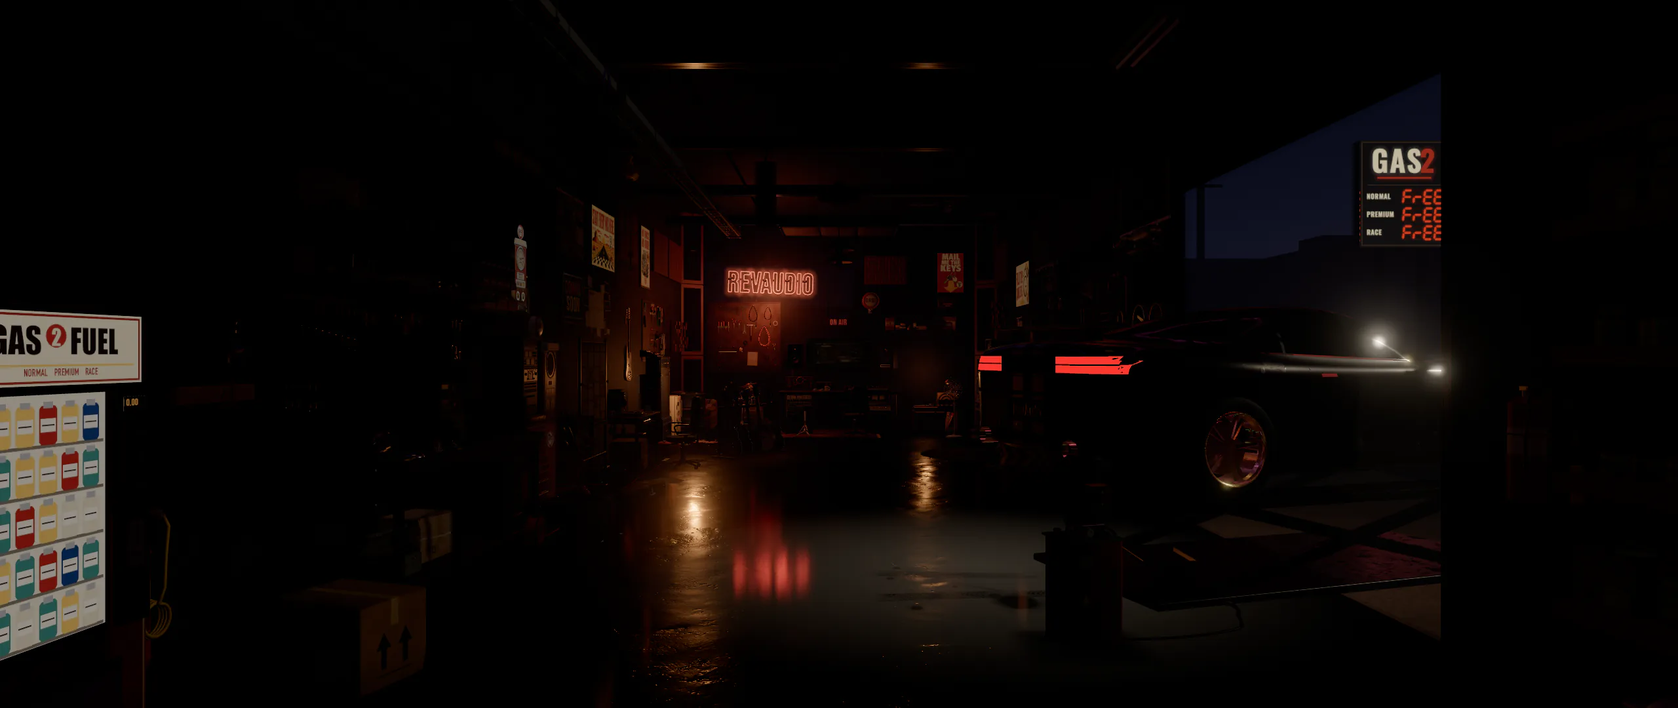
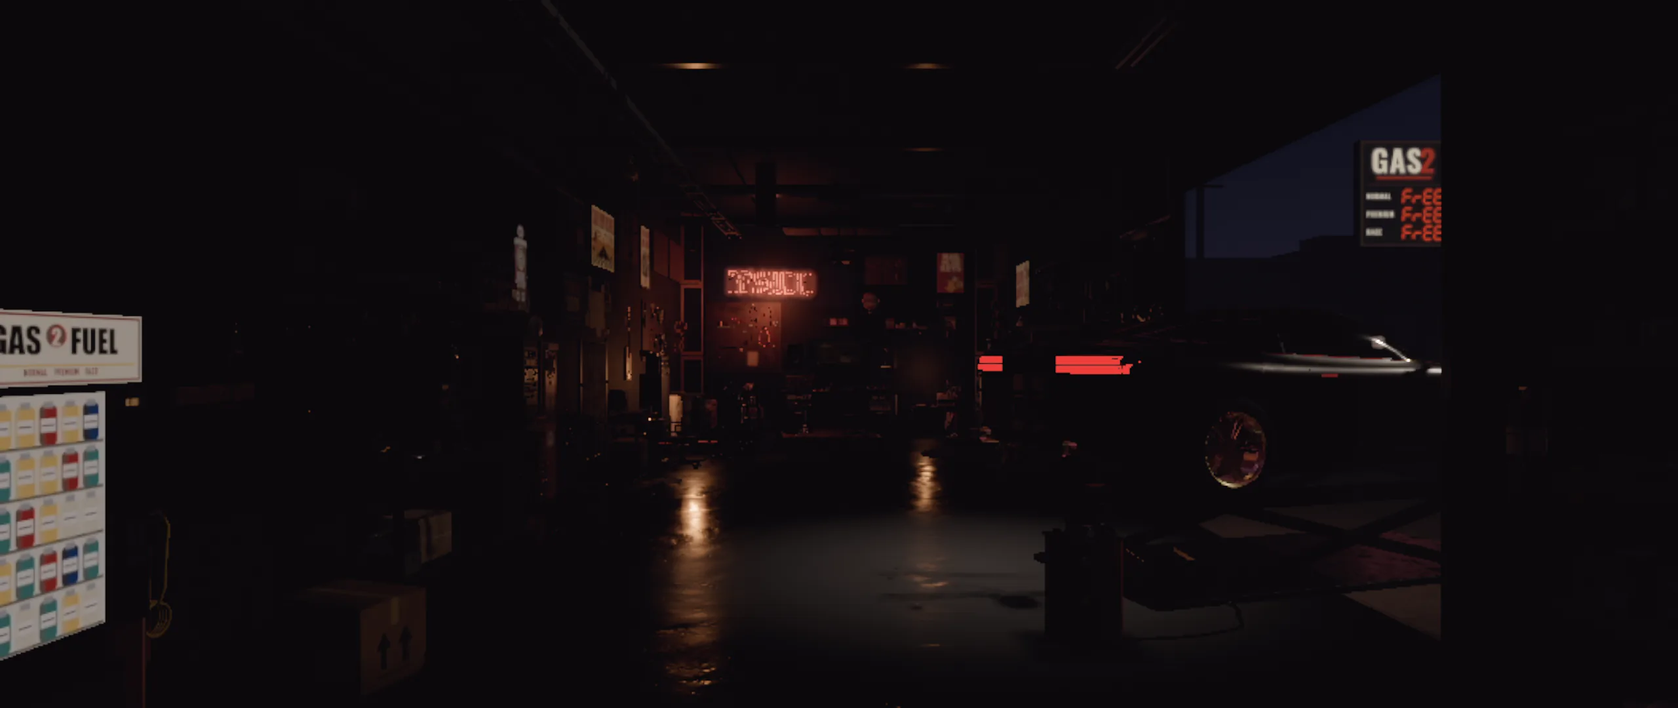
Home page garage: faster, and in VHS (Dan's pick), loading screen to match
The scroll and the walk lagged (Dan, 2026-11-18). Measured by an approved agent team, verified on a quiet Mac:
- Look-neutral speed fixes (pixel-checked, max 1 level off at every stop, Chrome @1/@2 and WebKit):
  O-1 a lamp's maths skipped where it adds nothing; O-2 the page's smoke hidden behind the frame;
  O-3 the floor's reflection drawn first; O-4 the glow added in the finish; O-6 a governor for weak
  machines only (never fired on this Mac). Door, Chrome uncapped 1141x636@2: 25.2 -> 12.2 ms.
- The vintage looks (film, 16mm, vhs) in room.html LOOKS; VHS is the default (LOOK_DEFAULT), Dan's
  pick on the comparison page. Door 3.9 ms; the home walk at the 60 Hz cap in Chrome, ~57 fps WebKit.
  ?look=today shows today's look; the home page passes ?look= through (allow-list).
- The loading screen in VHS: pictures re-rendered with &flat; the vignette and scanlines laid over them
  in CSS (.lo-look, lookOverlay) the way the finish lays them on the room. lights/check.mjs at
  1141x636@2: blurred mean 2.17, p99 12, worst area 5.4: PASS (today's 3.30 / 15 / 12.5).

Gates: build; home-prod Chrome + WebKit (same states as base); TV hand-off 1.65 (limit 2.6); bench
(dev + hidden page); haze; governor idle; parity default == ?look=vhs, ?look=today == today's room.

diff --git a/tools/_home-opening/room.html b/tools/_home-opening/room.html
@@ -69,6 +69,8 @@
   .lights .lo-bank, .lights .lo-flare, .lights .lo-grain { mix-blend-mode: plus-lighter; }
   .lights.no-plus .lo-bank, .lights.no-plus .lo-flare, .lights.no-plus .lo-grain { mix-blend-mode: screen; }
   .lights .lo-grain { position: absolute; inset: -96px; background-size: 192px 192px; opacity: 0; transition: opacity .9s ease; will-change: transform, opacity; }
+  /* the look's vignette and scanlines over the loading pictures (room.html lookOverlay): multiplied, like the finish */
+  .lights .lo-look { position: absolute; inset: 0; z-index: 1; mix-blend-mode: multiply; background-blend-mode: multiply; }
   html.lights-loading, html.lights-loading body { overflow: hidden; }
   html.lights-loading { scrollbar-gutter: stable; } /* (Windows: the scrollbar's room kept, so the hand-off doesn't re-lay the room) */
   .tv-live { position: absolute; left: 0; top: var(--nav-h); width: 100%; height: calc(var(--vh) - var(--nav-h)); display: block;
@@ -222,6 +224,11 @@ import { ShaderPass } from 'three/addons/postprocessing/ShaderPass.js';
 import { Reflector } from 'three/addons/objects/Reflector.js';
 import { RoundedBoxGeometry } from 'three/addons/geometries/RoundedBoxGeometry.js';
 import { buildStreet } from './street.js'; // the night outside the door: the station across the road (Dan, round 4)
+// speed (2026-11-18, O-1): a lamp's lighting maths is skipped wherever it adds exactly nothing (outside a spot's cone, or
+// fully in its shadow): the same picture, a much lighter frame (the spot lamps' maths ran on every lit pixel of the room).
+// Patched once here, before any shader compiles; a three.js whose chunk reads differently is left as it is
+{ const RE = 'RE_Direct( directLight, geometryPosition, geometryNormal, geometryViewDir, geometryClearcoatNormal, material, reflectedLight );', ch = THREE.ShaderChunk.lights_fragment_begin;
+  if (ch.split(RE).length === 4) THREE.ShaderChunk.lights_fragment_begin = ch.split(RE).join(`if ( directLight.visible && dot( directLight.color, vec3( 1.0 ) ) > 0.0 ) ${RE}`); }
 
 // ---------- settings (the bench; COPY SETTINGS bakes them) ----------
 const DEF = {
@@ -366,6 +373,14 @@ const EMBED_NAV = EMBED ? Math.round(+(window.__EMBED?.nav ?? new URLSearchParam
 // __EMBED.sale = the page's sale strip over the nav ('soon' | 'bf' | 'cm', src/data/sale.ts): the home TV sits under it,
 // laid out for a shorter screen, so the TV's picture is its own capture (tvcap.mjs --suffix sale; the three show the same TV)
 const EMBED_SALE = EMBED && ['soon', 'bf', 'cm'].includes(window.__EMBED?.sale) ? 'sale' : '';
+// the room's look (LOOKS, below the finish): LOOK_DEFAULT (Dan 2026-11-18, his pick on the comparison page: "VHS"), or
+// the one ?look=<id> asks for (the home page: __EMBED.look); ?look=today = today's look, without one (for comparing: the
+// loading screen's pictures stay the default look's)
+const LOOK_DEFAULT = 'vhs';
+const LOOK_ID = (EMBED ? window.__EMBED?.look : null) || new URLSearchParams(location.search).get('look') || LOOK_DEFAULT;
+// &flat (lights/render.mjs): the loading screen's pictures, drawn in the look without the marks that screen lays over them
+// itself (the vignette and the scanlines: lookOverlay) or the grain, at the look's resolution as a 1141x636 laptop shows them
+const LOOK_FLAT = CAPTURE != null && new URLSearchParams(location.search).has('flat');
 const embed = { y: 0, to: 0, paused: false };
 const embedSay = (ev, data) => { if (EMBED && parent !== window) parent.postMessage({ garage: ev, ...data }, '/'); };
 embedSay('boot'); // (the page falls back when this never comes: a script that failed to load)
@@ -482,13 +497,14 @@ function liveScreen(m) { // an opaque screen: its pixels skip the tone mapping
 // the finish: the room tone-mapped (bench: tone, exposure) and dithered against banding in the dark; the screens as they are
 const TONES = { none: 0, agx: 1, neutral: 2, aces: 3 };
 const FINISH = {
-  uniforms: { tDiffuse: { value: null }, toneMappingExposure: { value: 1 }, uTone: { value: 1 } },
+  uniforms: { tDiffuse: { value: null }, tBloom: { value: null }, toneMappingExposure: { value: 1 }, uTone: { value: 1 } },
   vertexShader: /* glsl */`varying vec2 vUv; void main() { vUv = uv; gl_Position = projectionMatrix * modelViewMatrix * vec4(position, 1.0); }`,
   fragmentShader: /* glsl */`
-    uniform sampler2D tDiffuse; uniform float uTone; varying vec2 vUv;
+    uniform sampler2D tDiffuse, tBloom; uniform float uTone; varying vec2 vUv;
     #include <tonemapping_pars_fragment>
     void main() {
       vec4 c = texture2D(tDiffuse, vUv);
+      c.rgb += texture2D(tBloom, vUv).rgb; // the glow (O-4, see bloomPass): added to the colour, the frame's alpha left as it is
       vec3 room = uTone < 0.5 ? clamp(c.rgb * toneMappingExposure, 0.0, 1.0) : uTone < 1.5 ? AgXToneMapping(c.rgb)
         : uTone < 2.5 ? NeutralToneMapping(c.rgb) : ACESFilmicToneMapping(c.rgb);
       room = sRGBTransferOETF(vec4(room, 1.0)).rgb + (fract(sin(dot(gl_FragCoord.xy, vec2(12.9898, 78.233))) * 43758.5453) - 0.5) / 255.0;
@@ -496,14 +512,140 @@ const FINISH = {
       gl_FragColor = vec4(mix(screen, room, clamp(c.a, 0.0, 1.0)), 1.0);
     }`,
 };
+// ---------- the vintage looks (?look=<id>; 2026-11-18 speed run, Dan: "less modern, more vintage") ----------
+// A look is cheaper because of what it drops, not what it adds: the room is drawn into a corner of the composer's
+// target at a lower resolution (k: the scene pass's share of today's pixels per side, capped at dpr device px per
+// CSS px), without the wet floor (a second drawing of the room), without UnrealBloom (its five blur levels) and with
+// msaa samples (0 = none); the finish then lays the look over at the canvas's full size: a halation from the target's
+// mip levels in place of the bloom, a grade (lift, gain, saturation, contrast), a vignette, grain seeded per frame,
+// soft scanlines and a chroma bleed (vhs). No flashing, rolling or jitter (WCAG 2.3.1). Every look eases off to
+// today's finish between off[0] and off[1] of the walk, its resolution back to full, so the real TV takes over the
+// same picture (the hand-off gate). move: the 16mm look draws softer while the walk moves (k x move), sharp at rest.
+// On the faster room (O-3, O-4): lookFrame() runs before frame() decides on the floor's reflection, so hiding R.wet
+// there drops the top-level draw too; and a look's finish never reads tBloom (the glow pass is off, lookInit).
+const LOOKS = {
+  film: { name: '1970s film', k: 0.8, dpr: 1.0, msaa: 0, off: [0.9, 0.99],
+    halo: { px: 7, thr: 0.35, k: 0.55, tint: [1.0, 0.42, 0.22] }, lift: [0.032, 0.022, 0.026], gain: [1.03, 0.985, 0.9], sat: 0.86, con: 0.18,
+    vig: 0.42, grain: 0.05, grainPx: 1.1, scan: 0, bleed: 0 },
+  '16mm': { name: '16 mm', k: 0.7, dpr: 0.85, move: 0.7, msaa: 0, off: [0.9, 0.99],
+    halo: { px: 9, thr: 0.3, k: 0.7, tint: [1.0, 0.5, 0.3] }, lift: [0.04, 0.03, 0.036], gain: [1.02, 0.99, 0.92], sat: 0.8, con: 0.24,
+    vig: 0.6, grain: 0.07, grainPx: 1.6, scan: 0, bleed: 0 },
+  vhs: { name: 'VHS', k: 0.6, dpr: 0.7, msaa: 0, off: [0.9, 0.99],
+    halo: { px: 6, thr: 0.3, k: 0.45, tint: [1.0, 0.8, 0.85] }, lift: [0.04, 0.032, 0.045], gain: [0.99, 0.98, 1.0], sat: 0.92, con: 0.1,
+    vig: 0.32, grain: 0.03, grainPx: 1.0, scan: 0.12, bleed: 1.5 },
+};
+const LOOK_ON = Object.hasOwn(LOOKS, LOOK_ID || '') ? LOOKS[LOOK_ID] : null;
+const LK = { n: 0, p: null, hold: 0, m: 0 }; // the grain's frame count; the walk's last place, how much it moves (16mm)
+const lookFinish = (lk) => ({ // FINISH with the look on top; at uAmt 0 and uK 1 it is FINISH's own arithmetic (less the glow)
+  uniforms: { ...FINISH.uniforms, uK: { value: new THREE.Vector2(1, 1) }, uAmt: { value: 1 }, uSeed: { value: 0 }, uLod: { value: 3 }, uCss: { value: 1 },
+    uLift: { value: new THREE.Vector3(...lk.lift) }, uGain: { value: new THREE.Vector3(...lk.gain) }, uHalo: { value: new THREE.Vector3(...lk.halo.tint) },
+    uG: { value: new THREE.Vector4(lk.sat, lk.con, lk.vig, lk.halo.k) }, uF: { value: new THREE.Vector4(lk.grain, lk.grainPx, lk.scan, lk.bleed) }, uThr: { value: lk.halo.thr } },
+  vertexShader: FINISH.vertexShader,
+  fragmentShader: /* glsl */`
+    uniform sampler2D tDiffuse; uniform float uTone, uAmt, uSeed, uLod, uCss, uThr; uniform vec2 uK; uniform vec3 uLift, uGain, uHalo;
+    uniform vec4 uG, uF; varying vec2 vUv;
+    #include <tonemapping_pars_fragment>
+    float h12(vec2 p) { vec3 q = fract(vec3(p.xyx) * 0.1031); q += dot(q, q.yzx + 33.33); return fract((q.x + q.y) * q.z); }
+    float vnoise(vec2 p) { vec2 i = floor(p), f = fract(p); f = f * f * (3.0 - 2.0 * f);
+      return mix(mix(h12(i), h12(i + vec2(1.0, 0.0)), f.x), mix(h12(i + vec2(0.0, 1.0)), h12(i + vec2(1.0, 1.0)), f.x), f.y); }
+    vec3 halo(vec2 uv, float lod, vec2 ts) { vec2 o = 0.5 * exp2(lod) / ts; // four taps half a texel of that level apart: a tent, not its blocks
+      return 0.25 * (textureLod(tDiffuse, uv + vec2(o.x, o.y), lod).rgb + textureLod(tDiffuse, uv + vec2(-o.x, o.y), lod).rgb
+        + textureLod(tDiffuse, uv + vec2(o.x, -o.y), lod).rgb + textureLod(tDiffuse, uv - o, lod).rgb); }
+    void main() {
+      vec2 ts = vec2(textureSize(tDiffuse, 0)), uv = uK.x < 1.0 ? min(vUv * uK, uK - 0.5 / ts) : vUv;
+      vec4 c = textureLod(tDiffuse, uv, 0.0);
+      vec3 hdr = c.rgb;
+      if (uAmt > 0.0) {
+        if (uF.w > 0.0) { // the tape's colour smeared from the left, its brightness kept
+          vec2 d = vec2(uF.w / ts.x, 0.0);
+          vec3 s = 0.4 * hdr + 0.3 * textureLod(tDiffuse, uv - d, 0.0).rgb + 0.2 * textureLod(tDiffuse, uv - 2.0 * d, 0.0).rgb + 0.1 * textureLod(tDiffuse, uv - 3.0 * d, 0.0).rgb;
+          vec3 Y = vec3(0.299, 0.587, 0.114);
+          hdr = mix(hdr, (s + 0.002) / (dot(s, Y) + 0.002) * dot(hdr, Y), uAmt); // (the smeared hue at this pixel's brightness)
+        }
+        vec3 b = 0.5 * halo(uv, uLod, ts) + 0.3 * halo(uv, uLod + 1.0, ts) + 0.2 * halo(uv, uLod + 2.0, ts);
+        float bl = max(max(b.r, b.g), b.b);
+        hdr += b * clamp((bl - uThr) / max(bl, 1e-4), 0.0, 1.0) * uHalo * uG.w * uAmt; // the light that spread in the emulsion: red-orange round the lamps and tubes
+      }
+      vec3 room = uTone < 0.5 ? clamp(hdr * toneMappingExposure, 0.0, 1.0) : uTone < 1.5 ? AgXToneMapping(hdr)
+        : uTone < 2.5 ? NeutralToneMapping(hdr) : ACESFilmicToneMapping(hdr);
+      room = sRGBTransferOETF(vec4(room, 1.0)).rgb + (fract(sin(dot(gl_FragCoord.xy, vec2(12.9898, 78.233))) * 43758.5453) - 0.5) / 255.0;
+      vec3 screen = sRGBTransferOETF(vec4(clamp(c.rgb, 0.0, 1.0), 1.0)).rgb;
+      vec3 o = mix(screen, room, clamp(c.a, 0.0, 1.0));
+      if (uAmt > 0.0) {
+        vec3 g = clamp(o, 0.0, 1.0); float l = dot(g, vec3(0.2126, 0.7152, 0.0722));
+        g = mix(vec3(l), g, uG.x);                     // saturation
+        g = mix(g, g * g * (3.0 - 2.0 * g), uG.y);     // a print's S-curve
+        g = uLift + g * (uGain - uLift);               // lifted, tinted blacks; warm highlights
+        vec2 q = (vUv - 0.5) * vec2(1.0, 0.8);
+        g *= 1.0 - uG.z * smoothstep(0.12, 0.62, dot(q, q) * 2.0); // the lens's falloff
+        if (uF.z > 0.0) g *= 1.0 - uF.z * (0.5 - 0.5 * cos(6.2832 * gl_FragCoord.y / (3.0 * uCss))); // soft scanlines, still (every 3 CSS px)
+        float n = vnoise(gl_FragCoord.xy / (uCss * uF.y) + fract(uSeed * vec2(0.6180, 0.7548)) * 512.0) * 2.0 - 1.0;
+        g += n * uF.x * (0.35 + 2.6 * l * (1.0 - l)); // grain: mostly in the mid-tones, a little in the dark
+        o = mix(o, g, uAmt);
+      }
+      gl_FragColor = vec4(o, 1.0);
+    }`,
+});
+// set the look's targets and passes up (once, before the first frame)
+function lookInit() {
+  bloomPass.enabled = false;
+  for (const rt of [composer.renderTarget1, composer.renderTarget2]) { rt.texture.generateMipmaps = true; rt.texture.minFilter = THREE.LinearMipmapLinearFilter; } // the halation's levels
+  if (LOOK_FLAT) { const u = finishPass.uniforms; u.uG.value.z = 0; u.uF.value.x = 0; u.uF.value.z = 0; } // (&flat: no vignette, grain or scanlines)
+}
+// the loading screen in the look (lights/lights-on.js): its pictures are drawn &flat, and the vignette and the scanlines
+// lie over them here the way the finish lays them over the room: the same factors (multiplied, as the finish multiplies
+// its colour), in the screen's own CSS pixels, the scanlines counted from the bottom edge like gl_FragCoord. So the
+// hand-off shows the same picture. They leave with the loading screen
+function lookOverlay(lk) {
+  const grey = (v) => { const c = (255 * v).toFixed(1); return `rgb(${c} ${c} ${c})`; }, layers = [];
+  if (lk.scan) { // 1 - scan (0.5 - 0.5 cos(2 pi y / 3)), y in CSS px up from the bottom
+    const st = []; for (let i = 0; i <= 12; i++) { const y = i / 4; st.push(`${grey(1 - lk.scan * (0.5 - 0.5 * Math.cos(2 * Math.PI * y / 3)))} ${y}px`); }
+    layers.push(`repeating-linear-gradient(to top, ${st.join(', ')})`);
+  }
+  if (lk.vig) { // 1 - vig smoothstep(0.12, 0.62, 2|q|^2), q = (uv - 0.5)(1, 0.8): r^2 = 2|q|^2 on an ellipse of radii W/sqrt2, H/(0.8 sqrt2)
+    const st = [`${grey(1)} 0%`]; for (let i = 0; i <= 16; i++) { const r2 = 0.12 + 0.5 * i / 16, t = (r2 - 0.12) / 0.5; st.push(`${grey(1 - lk.vig * t * t * (3 - 2 * t))} ${(100 * Math.sqrt(r2)).toFixed(2)}%`); }
+    layers.push(`radial-gradient(${(100 / Math.SQRT2).toFixed(3)}% ${(100 / (0.8 * Math.SQRT2)).toFixed(3)}% at 50% 50%, ${st.join(', ')})`);
+  }
+  return layers.join(', ');
+}
+// each frame, before the composer: how strong the look is here, what share of the target the room is drawn into
+function lookFrame(now) {
+  const lk = LOOK_ON, u = finishPass.uniforms, rt = composer.readBuffer, W = rt.width, H = rt.height;
+  const pr = renderer.getPixelRatio() * (LOOK_FLAT ? innerHeight / 636 : 1); // (&flat: the picture's pixels per CSS px on a 1141x636 laptop, object-fit cover)
+  const amt = 1 - smooth(lk.off[0], lk.off[1], progress);
+  let kk = Math.min(lk.k, lk.dpr / pr);
+  if (lk.move) { // the walk moving (it moved in the last 8 frames): softer, easing in and out over a few frames
+    LK.hold = LK.p != null && Math.abs(progress - LK.p) > 2e-4 && CAPTURE == null ? 8 : Math.max(0, (LK.hold || 0) - 1); LK.p = progress;
+    LK.m += ((LK.hold > 0 ? 1 : 0) - LK.m) * 0.2;
+    kk *= 1 - (1 - lk.move) * LK.m;
+  }
+  const k = 1 + (kk - 1) * amt, w = Math.max(1, Math.round(W * k)), h = Math.max(1, Math.round(H * k));
+  for (const t of [composer.renderTarget1, composer.renderTarget2]) t.viewport.set(0, 0, w, h);
+  u.uK.value.set(w / W, h / H); u.uAmt.value = amt; u.uCss.value = pr;
+  u.uSeed.value = CAPTURE != null || reduced ? 1 : (LK.n = (LK.n + 1) % 8192); // a still (and reduced motion) holds one grain; the walk's grain moves every frame
+  u.uLod.value = Math.log2(Math.max(1, lk.halo.px * pr * (h / H)));
+  R.dust.mat.size = 0.02 * (h / H); // (a point's size follows the canvas, not the corner it is drawn in)
+  R.wet.visible = false; // dropped: the floor keeps its own highlights
+}
 // half floats with 4x MSAA (the edges of a room full of thin things), the glow, the finish
-const composer = new EffectComposer(renderer, new THREE.WebGLRenderTarget(1, 1, { type: THREE.HalfFloatType, samples: 4 }));
+const composer = new EffectComposer(renderer, new THREE.WebGLRenderTarget(1, 1, { type: THREE.HalfFloatType, samples: LOOK_ON ? LOOK_ON.msaa : 4 }));
 const bloomPass = new UnrealBloomPass(new THREE.Vector2(512, 512), S.bloom, 0.32, 0.9);
 keepAlpha(bloomPass.blendMaterial, true);
 bloomPass.blendMaterial.blendSrc = THREE.OneFactor; // its glow is premultiplied: x its alpha again squared the halos (the alpha factors still keep the frame's)
-const finishPass = new ShaderPass(FINISH);
+const finishPass = new ShaderPass(LOOK_ON ? lookFinish(LOOK_ON) : FINISH);
 finishPass.needsSwap = false; // it draws to the canvas; a swap after it kept a second MSAA half-float target alive
+// speed (2026-11-18, O-4; the 11-10 study's O4): the glow joins in the finish (tBloom) instead of being blended back into
+// the 4x MSAA target, which then had to be resolved a second time: the same sum (the glow is premultiplied and added as
+// it is; the frame's alpha stays), one full-size draw and one resolve fewer every frame. So the pass's last draw, that
+// blend, is skipped, only when three.js's bloom still works the way this assumes (its quad and composite target)
+if (bloomPass._fsQuad && bloomPass.renderTargetsHorizontal?.[0] && bloomPass.blendMaterial) {
+  const bloomQuadRender = bloomPass._fsQuad.render;
+  bloomPass._fsQuad.render = function (r) { if (this.material !== bloomPass.blendMaterial) bloomQuadRender.call(this, r); };
+  finishPass.uniforms.tBloom.value = bloomPass.renderTargetsHorizontal[0].texture; // the glow's composite (the same texture after a resize)
+} else finishPass.uniforms.tBloom.value = new THREE.DataTexture(new Uint8Array(4), 1, 1); // (old path: black, nothing added twice)
 composer.addPass(new RenderPass(scene, camera)); composer.addPass(bloomPass); composer.addPass(finishPass);
+if (LOOK_ON) lookInit();
+if (LOOK_ON && (LOOK_ON.vig || LOOK_ON.scan) && $('lights')) { const d = document.createElement('div'); d.className = 'lo-look'; d.style.backgroundImage = lookOverlay(LOOK_ON); $('lights').append(d); }
 const loader = new THREE.TextureLoader();
 const picture = (name) => PICS[name]; // the posters and the CRT screens, preloaded with the texture sets (loadTextures)
 const isUnit = (s) => !!(MODELS[s.id] && !MODELS[s.id].crt); // a monitor slot that holds its plugin's own object (round 6): no screen, so no screen picture to load
@@ -1361,6 +1503,11 @@ function createRoom() {
   Object.assign(R.wet.material.uniforms, { tWet: { value: PATCHES.wet }, tNrm: { value: wf.normalMap }, uTile: { value: 3 }, uK: { value: 0.6 }, uFog: { value: 0 } });
   keepAlpha(Object.assign(R.wet.material, { transparent: true, depthWrite: false }), true);
   scene.add(R.wet);
+  // speed (2026-11-18, O-3): frame() draws the floor's reflection just before the room's render, not from inside it.
+  // Nested, three.js re-resolved every lit material's shader in both renders, every frame (~4 ms of JS at the door). Every
+  // other view (the probe, the painter's projectors) still draws it the old way
+  R.wetDraw = R.wet.onBeforeRender;
+  R.wet.onBeforeRender = function (r, s, cam) { if (!(R.wetFirst && cam === camera)) R.wetDraw.call(this, r, s, cam); };
   R.lanesMat = new THREE.MeshStandardMaterial({ transparent: true, roughness: 0.6, depthWrite: false });
   R.lanes = new THREE.Mesh(new THREE.PlaneGeometry(1, 1), R.lanesMat); R.lanes.rotation.x = -Math.PI / 2;
   R.mirror = new Reflector(new THREE.PlaneGeometry(1, 1), { clipBias: 0.003, textureWidth: 512, textureHeight: 512, color: 0x8a8590 });
@@ -2162,12 +2309,51 @@ function resize() {
       $('belowImg').src = `assets/below-${c.navW}.webp`;
     }
   }
-  renderer.setPixelRatio(Math.min(devicePixelRatio || 1, 1.75, Math.sqrt(3.7e6 / (vw * vh)))); // the recipe's laptop budget: a 3.7 MP drawing buffer at most
+  setBuffer();
+  layoutCamera(); arrange(); benchFit();
+}
+// the drawing buffer: the recipe's laptop budget, a 3.7 MP buffer at most; GOV.k < 1 only on a machine the governor
+// found too slow at the door (weak machines only, see GOV)
+function setBuffer() {
+  const { vw, vh } = L;
+  renderer.setPixelRatio(Math.min(devicePixelRatio || 1, 1.75, Math.sqrt(3.7e6 / (vw * vh))) * GOV.k);
   renderer.setSize(vw, vh, false); composer.setPixelRatio(renderer.getPixelRatio()); composer.setSize(vw, vh);
   const dpr = renderer.getPixelRatio();
   R.mirror.getRenderTarget().setSize(Math.round(vw * dpr * 0.5), Math.round(vh * dpr * 0.5));
   R.wet.getRenderTarget().setSize(Math.round(vw * dpr * 0.25), Math.round(vh * dpr * 0.25)); // it's softened anyway
-  layoutCamera(); arrange(); benchFit();
+}
+// ---------- the governor (2026-11-18, O-6): WEAK MACHINES ONLY ----------
+// A machine that can't hold the frame rate at the door draws a smaller buffer: one step at a time (x0.8), measured over
+// 1.5 s of frames at the door (or, mid-walk, over 3 s and applied only once the walk is at rest), never back up within a
+// visit (no flip-flop), and a step that buys less than 10 % is taken back at once (a slow CPU, not pixels: a smaller
+// buffer only blurs it). On a machine that holds ~36 fps or better nothing happens: the look is untouched. Never in a
+// capture (stills) or with ?governor=0. window.__gov reports what it did
+const GOV = { k: 1, level: 0, on: CAPTURE == null && new URLSearchParams(location.search).get('governor') !== '0', iv: [], last: 0, from: 0, door: true, before: 0, beforeDoor: true, done: false, log: [] };
+window.__gov = GOV;
+const GOV_STEPS = [1, 0.8, 0.64], GOV_SLOW = 1000 / 36, GOV_WALK_SLOW = 1000 / 25;
+function govern(now, drew) {
+  if (!GOV.on || GOV.done) return;
+  const gap = now - GOV.last; GOV.last = now;
+  if (!drew || document.hidden || gap > 250) { GOV.iv.length = 0; return; } // a pause, a hidden tab or a hitch: start over
+  if (!GOV.from) GOV.from = now + 1500; // the first frames after the hand-off settle (uploads, the first probe)
+  if (now < GOV.from) return;
+  const door = progress < 0.02;
+  if (GOV.iv.length && door !== GOV.door) GOV.iv.length = 0; // a window is all door or all walk
+  GOV.door = door; GOV.iv.push(gap);
+  const span = GOV.iv.reduce((a, b) => a + b, 0);
+  if (span < (door ? 1500 : 3000)) return;
+  const mean = span / GOV.iv.length; GOV.iv.length = 0; GOV.seen = (GOV.seen || 0) + 1; GOV.mean = +mean.toFixed(1); // (what it saw: window.__gov)
+  if (GOV.before && GOV.beforeDoor === door) { // judge the last step on a like window: under 10 % faster = not the pixels
+    const undo = mean > GOV.before * 0.9;
+    GOV.log.push({ at: Math.round(now), mean: +mean.toFixed(1), judged: GOV.level, undo });
+    GOV.before = 0;
+    if (undo) { GOV.level--; GOV.k = GOV_STEPS[GOV.level]; setBuffer(); GOV.done = true; return; } // take it back, stop
+  }
+  if (mean <= (door ? GOV_SLOW : GOV_WALK_SLOW)) return; // it holds: nothing changes
+  if (GOV.level >= GOV_STEPS.length - 1 || Math.min(devicePixelRatio || 1, 1.75) * GOV_STEPS[GOV.level + 1] < 0.75) { GOV.done = true; return; }
+  if (!door && now - lastScrollAt < 500) return; // mid-walk: only once the walk is at rest (no pop while it moves)
+  GOV.level++; GOV.k = GOV_STEPS[GOV.level]; GOV.before = mean; GOV.beforeDoor = door; setBuffer();
+  GOV.log.push({ at: Math.round(now), mean: +mean.toFixed(1), level: GOV.level, door });
 }
 // layoutCamera(): the camera's start and end on this screen. The room has one size in metres (Dan 2026-11-04: a room
 // built and lit in Blender can't stretch per screen); only the camera adapts
@@ -2327,6 +2513,11 @@ function lightRoom(neonK, warm, signK, open, far, now, full = false) {
   for (const m of SHINY) m.envMapIntensity = S.probe * (m.userData.env ?? 1) * warm * fill; // the reflections come up with the lamps
   for (const g of R.modelGlow || []) { const c = g.cyc, s = c && (now / 1000) % c.n; g.m.emissiveIntensity = g.k * warm * b(PROP_BANK[g.id] || (g.own ? 'own' : 'gear')) * (g.dying && !steady && hash(Math.floor(now / 400) + 9) > 0.93 ? 0.55 : 1) * (!c ? 1 : (steady ? !c.a : s >= c.a && s < c.b) ? 1 : 0.03); } // a model's meters and LEDs too (with its bank, or the gear's); a traffic light's lamps in turn
 }
+const wetFrustum = new THREE.Frustum(), wetPM = new THREE.Matrix4();
+function wetInView() { // the test the room's render makes before it draws R.wet, on this frame's matrices (O-3)
+  camera.updateMatrixWorld(); R.wet.updateMatrixWorld();
+  return wetFrustum.setFromProjectionMatrix(wetPM.multiplyMatrices(camera.projectionMatrix, camera.matrixWorldInverse)).intersectsObject(R.wet);
+}
 function frame(now) {
   const t = now - t0;
   if (!reduced) for (const mt of R.traces || []) mt.emissiveMap.offset.x = (now / 1000 * 0.35) % 1; // N33's green trace
@@ -2422,7 +2613,15 @@ function frame(now) {
   for (const f of R.film || []) f.box.classList.toggle('is-on', f === R.filmShown);
   if (R.filmShown) placeFilm(R.filmShown, tw);
   if (R.paintOn && R.shotsStale) { R.shotsStale = false; placeShots(); }
-  if ((!locked || document.body.classList.contains('bench-on')) && !R.filmShown) composer.render();
+  if (LOOK_ON) lookFrame(now);
+  if ((!locked || document.body.classList.contains('bench-on')) && !R.filmShown) {
+    // the floor's reflection first, at the top level (O-3). A frame that redraws the static shadows keeps it nested:
+    // the room's render draws them first
+    R.wetFirst = R.wet.visible && R.wet.material.visible && !renderer.shadowMap.needsUpdate && wetInView();
+    if (R.wetFirst) R.wetDraw.call(R.wet, renderer, scene, camera);
+    composer.render();
+    R.wetFirst = false;
+  }
 }
 
 // ---------- scroll: Lenis like the site; a half walk finishes the way the visitor was going ----------
@@ -2614,6 +2813,7 @@ function raf(now) {
   }
   if (lenis) lenis.raf(now);
   readScroll(); snapCheck(now); frame(now);
+  govern(now, progress < 0.999 && !R.filmShown); // (O-6: weak machines only)
   requestAnimationFrame(raf);
 }
 

diff --git a/tools/_home-opening/lights/README.md b/tools/_home-opening/lights/README.md
@@ -37,6 +37,13 @@ first visit of a session; after that soft rises, no flicker).
   dust come in over 2.5 s.
 - Flashes: one at a time across the room, the next at least 400 ms after (2.5 a second; WCAG 2.3.1 allows 3, the
   room's rule since 11-04). Reduced motion and the second visit of a session: soft rises, no flicker, no flare.
+- The room's look (room.html `LOOKS`, `LOOK_DEFAULT`: VHS since Dan's pick, 2026-11-18): the pictures are rendered in it
+  (`&flat`), without the three marks that sit on the screen rather than in the room: the vignette, the scanlines and the
+  grain. The loading screen lays the vignette and the scanlines over them itself (`.lo-look`, room.html `lookOverlay`),
+  multiplied like the finish multiplies them, in the screen's own CSS pixels; the grain is the loading screen's own.
+  The look's lower resolution is drawn as a 1141x636 laptop shows the pictures (`object-fit: cover`), so they match there;
+  on a larger screen the pictures are a little softer than the live room. `?look=today` shows today's room over these
+  (VHS) pictures: a comparison switch, not a visitor's page.
 - The slow-connection still (`#still`, `assets/still/room-2560.webp`) is gone from room.html: the loading screen is the
   slow path now. `still.mjs` and its picture are left for whoever still uses them.
 
@@ -55,6 +62,14 @@ Re-run the pictures (like still.mjs), then the checks:
 
 A new light: put it in a bank (`props`, or a new bank in `LIGHT_BANKS` and its lines in `lightRoom`), re-render.
 A new skin = new pictures from the same script.
+
+## Checks (2026-11-18, real Chrome, the faster room in VHS, pictures re-rendered with `&flat`)
+
+- Hand-off at 1141x636 @2x: blurred mean 2.17, p99 12, worst area 5.4: PASS (today's room: 3.30, 15, 12.5).
+- 1440x900 @2x: blurred mean 3.24, p99 22, worst area 8.3: FAIL on p99 alone (the pictures are softer there). Today's
+  room fails there too, by more: 5.51, 24, 30.3.
+- 1920x1080 @1x: 2.53, 17, 10.8: PASS (today's: 2.71, 9, 7.2).
+- The layers vs the full room: mean 2.95, p99 14. 12 files, 313 KB (were 441 KB).
 
 ## Checks (2026-11-11, real Chrome, the room with Dan's car look, `5efaf80` + this render)
 

diff --git a/tools/_home-opening/look-spec.md b/tools/_home-opening/look-spec.md
@@ -34,6 +34,15 @@ everywhere.
 - Chrome and tool handles catch the neon (09). Concrete with a long soft reflection, never a mirror (32).
 - The REVAUDIO neon: crooked, warm, not in your face. Any flicker: 3 flashes a second or fewer.
 
+## The look on top (Dan, 2026-11-18)
+
+The room is shown through a VHS look (room.html `LOOKS.vhs`, `LOOK_DEFAULT`), Dan's pick on the comparison page over
+film and 16 mm, for its look and its speed. It draws the room at a lower resolution, without the wet floor's reflection or
+the bloom, then lays a soft halation, a tape's colour bleed, a grade, a vignette, still scanlines and a fine grain over
+it. At the door the far REVAUDIO neon blurs (Dan saw it in the stills he picked); it reads from the middle of the walk.
+The look eases off to today's finish before the TV, so the hand-off to the page is unchanged. So under the look, the
+"long soft reflection" above is left out; the room itself keeps it (`?look=today`).
+
 ## Materials
 
 - Floor: dark sealed concrete, oil stains, a soft sheen (14, 32).
